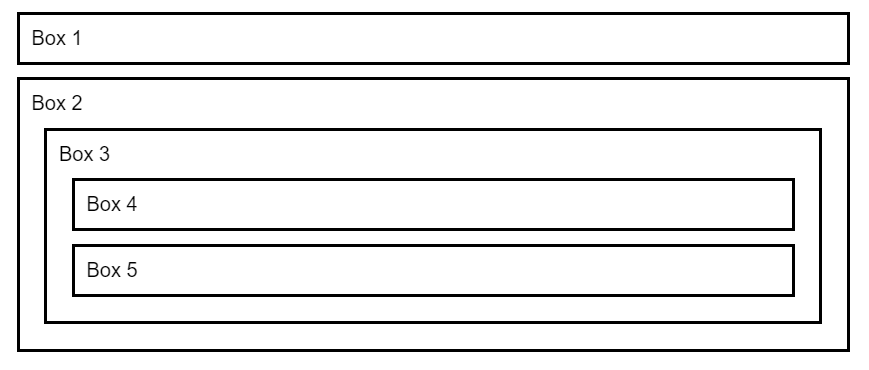
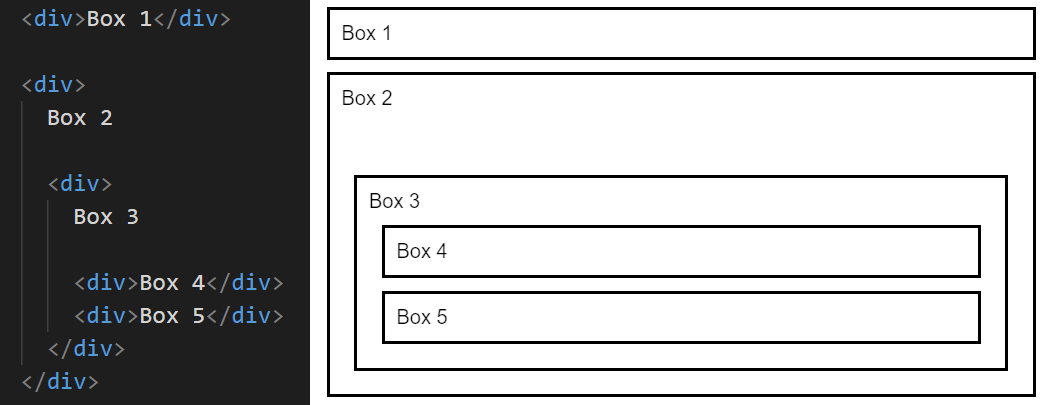
feedback from matt

diff --git a/01-html/content/step-1-html-cmd-git.md b/01-html/content/step-1-html-cmd-git.md
@@ -6,7 +6,7 @@ It's time to get our hands dirty with some real coding! We know this is a big un
 
 ## Getting Started with the Command Line
 
-In the old days of computer usage, entering text-based commands on a black screen was the only way to interact with the system. There was no graphical user interface (also known as a GUI) with icons that could be clicked. Now that we have more powerful operating systems like Windows and macOS, most users never have to look at a command line interface (CLI). For developers, though, the command line is still a common tool for performing certain tasks. Later in the course, it will become integral to building full-stack applications. For now, we'll be using it to set up our project.
+In the old days of computer usage, entering text-based commands on a black screen was the only way to interact with the system. There was no graphical user interface (also known as a GUI) with icons that could be clicked. Now that we have more powerful operating systems like Windows and macOS, most users never have to look at a command line interface (CLI). For developers, though, the command line (often called the terminal) is still a common tool for performing certain tasks. Later in the course, it will become integral to building full-stack applications. For now, we'll be using it to set up our project.
 
 Mac users, you already have a built-in Terminal app, which you can go ahead and launch now by searching for "terminal" in the Spotlight Search (the 🔍 icon in the top-right corner, or keyboard shortcut Command+Spacebar).
 
@@ -18,7 +18,7 @@ Regardless of your operating system, you should see a window that looks like thi
 
 In this window, type the command `pwd` and press Enter. The terminal will then display something like `/c/Users/YourName` on Windows or `/Users/YourName` on Mac. The command `pwd` stands for Print Working Directory and lets us know which folder (a.k.a. directory) the terminal is currently in. When you first open Terminal or Git Bash, you start in your user folder/directory. If you want to see what's in this directory, you could navigate to it through your operating system's GUI (by clicking on folder icons, etc.), but since we're already in the command line, let's try another command: `ls`.
 
-The `ls` command lists any files and folders within the current directory. Some common folders you might see in here are `Documents`, `Pictures`, `Music`, and `Desktop`. Fun fact: the desktop you see when your computer first starts is this folder in your user directory! Let's "go" there now from the command line by typing the following commands, pressing Enter after each one:
+The `ls` command lists any files and folders within the current directory. Some common folders you might see in here are `Documents`, `Pictures`, `Music`, and `Desktop`. Fun fact: the desktop you see when your computer first starts is this folder in your user directory! Let's "go" there now from the command line by typing the following commands, pressing Enter after each line:
 
 ```bash
 cd Desktop
@@ -137,9 +137,9 @@ All right, so it's not the most exciting web page yet, but you gotta start somew
 
 > **Deep Dive:** Read more about the different [heading tags](https://developer.mozilla.org/en-US/docs/Web/HTML/Element/Heading_Elements).
 
-Try changing the code to `<h2>RUN BUDDY</h2>`. Save the file and refresh the tab in the browser. Notice how the text shrunk slightly. Also keep in mind that this only affected the RUN BUDDY text, because the tag was closed. If you remove the `</h2>`, the text underneath will become big and bold, too, because the browser doesn't know where the `<h2>` ends.
+Try changing the code to `<h2>RUN BUDDY</h2>`. Save the file and refresh the tab in the browser. Notice how the text shrunk slightly. Also keep in mind that this only affected the RUN BUDDY text, because the tag was closed. If you remove the `</h2>`, the text underneath will become big and bold, too, because the browser doesn't know where the `<h2>` ends. Now change it to an `<h3>` and observe again how the text continues to shrink.
 
-Now that we understand HTML tags, let's look at the others we used. We're writing an HTML page, so it makes sense that everything would need to be wrapped in an `<html>` tag. The only thing that didn't go inside this tag was the `<!DOCTYPE html>`. This is an extra line that tells the browser how to interpret your HTML code. We don't need to worry about supporting very old browsers like Netscape Navigator, so this **DOCTYPE** will always be written as `<!DOCTYPE html>`.
+With this new understanding of HTML tags, let's look at the others we used. We're writing an HTML page, so it makes sense that everything would need to be wrapped in an `<html>` tag. The only thing that didn't go inside this tag was the `<!DOCTYPE html>`. This is an extra line that tells the browser how to interpret your HTML code. We don't need to worry about supporting very old browsers like Netscape Navigator, so this **DOCTYPE** will always be written as `<!DOCTYPE html>`.
 
 > **Deep Dive:** Read more about the [DOCTYPE](https://developer.mozilla.org/en-US/docs/Web/HTML/Quirks_Mode_and_Standards_Mode).
 
@@ -162,27 +162,31 @@ The `charset` meta tag is important to include now, though, because it specifies
 
 The good news is, much of this is boilerplate, meaning every web page is going to start with the same structure. Every page needs a DOCTYPE, an `<html>` tag, a `<head>` tag, etc. It's worth typing out again and again just to reiterate their importance, but it can also be copy/pasted into future projects without harm.
 
-One last thing to keep in mind is how we've been organizing the code in our HTML file. New tags were put on a new line, and whenever a tag was inside of another, we indented the code. You could choose to write your HTML like this:
+> **Best Practice:** Keep in mind how we've been organizing the code in our HTML file. New tags were put on a new line, and whenever a tag was inside of another, we indented the code. You could choose to write your HTML like this:
+>
+>```html
+><!DOCTYPE html> <html lang="en"> <head> <meta charset="UTF-8" /> <title>Run Buddy</title> </head> <body> <h1>RUN BUDDY</h1> What We Do </body> </html>
+>```
+>
+>...and the browser would still render it correctly, but this is difficult to make sense of! As we write code, we want it to be as legible as possible. This is not only for the benefit of other developers who may work on this project but for ourselves when we come back the next day, having totally forgotten what we were doing.
 
-```html
-<!DOCTYPE html> <html lang="en"> <head> <meta charset="UTF-8" /> <title>Run Buddy</title> </head> <body> <h1>RUN BUDDY</h1> What We Do </body> </html>
-```
-
-...and the browser would still render it correctly, but this is difficult to make sense of! As we write code, we want it to be as legible as possible. This is not only for the benefit of other developers who may work on this project but for ourselves when we come back the next day, having totally forgotten what we were doing.
+> **Coding Challenge:** Create a brand new HTML file that lists your six favorite foods, using the different HTML headings to denote their importance to you.
 
 ## Getting Git
 
-Our web page doesn't look like much yet, but this is still a good place to stop and take care of another important aspect when it comes to managing a project: **version control**. Git is one option to accomplish this. It's a system that allows you to save snapshots (or in Git terms, **commits**) of your work. Whenever you reach a good stopping point, you can save, or commit, the current state of your codebase. This creates a nice history of changes that you can look back on and allows you to easily revert to an earlier version if your codebase suddenly breaks beyond repair. Git also lets you push your commits to a remote location, meaning you won't lose any work if your computer crashes, or you can switch between your home computer and office computer and continue where you left off.
+Our web page doesn't look like much yet, but this is still a good place to stop and take care of another important aspect when it comes to managing a project: **version control**. Git is one option to accomplish this. It's a system that allows you to create save points (or in Git terms, **commits**) of your work. Whenever you reach a good stopping point, you can save/commit the current state of your codebase. This creates a nice history of changes that you can look back on and allows you to easily revert to an earlier version.
 
-The biggest benefits of Git come from working on a team, which is very likely to happen once you step out into the development workforce. Without Git, it would be extremely tedious for developers to share code and work on the same app without accidentally losing or overwriting each other's code. Using Git, developers can create alternate versions of the same codebase (called **branches**) and work in isolation. When developers are ready to merge these branches together, Git will point out if any lines of code conflict and give developers a chance to fix the overlap. Pretty nifty stuff.
+> **On the Job:** In development, you'll hear the term **production** a lot, which refers to the live version of your app or website that users are currently using. Sometimes bad code makes it to production, maybe causing the entire app to freeze, and the best course of action is to immediately undo! With Git, an older (working) version of the codebase can be pushed to production while developers investigate what went wrong with the new version.
+
+Other benefits of Git include being able to push commits to a remote location, meaning you won't lose any work if your computer crashes, or you can switch between your home computer and office computer and continue where you left off. Git also facilitates working on a team, which is very likely to happen once you step out into the development workforce. Without Git, it would be extremely tedious for developers to share code and work on the same app without accidentally losing or overwriting each other's code. Using Git, developers can create alternate versions of the same codebase (called **branches**) and work in isolation. When developers are ready to merge these branches together, Git will point out if any lines of code conflict and give developers a chance to fix the overlap. Pretty nifty stuff.
 
 > **Deep Dive:** Learn more about [Git](https://git-scm.com/video/what-is-git) from the Git team!
 
 We'll be honest, though... learning Git is tough. It's okay if things don't click right away, or if commits get messed up. Fortunately, there will be plenty of opportunities to practice Git in the coming weeks. By the time you complete the boot camp, you'll be a Git master!
 
-Let's turn our Run Buddy project into a Git **repository.** Open the terminal in the `run-buddy` directory and run the following command: `git init`. The terminal should print something like `Initialized empty Git repository.`
+Let's turn Run Buddy into a Git **repository** (basically a project folder with version control capabilities). Open the terminal in the `run-buddy` directory and run the following command: `git init`. The terminal should print something like `Initialized empty Git repository.`
 
-> **Important:** If your computer doesn't recognize the `git` command, make sure you've installed it from the [Git website](https://git-scm.com/downloads).
+> **Important:** If your computer doesn't recognize the `git` command, make sure you've installed Git from the [Git website](https://git-scm.com/downloads).
 
 It may not seem like much happened, but this created a hidden `.git` folder in the `run-buddy` directory that designates it as a Git repository. If you want to verify for yourself, run the command `ls -a`, which will list any hidden files and folders as well as normal files. A file or folder starting with `.` is hidden, and the `.git` folder is marked as hidden, because it's probably not something we should be messing with.
 
@@ -205,7 +209,9 @@ git status
 git commit -m "page template"
 ```
 
-`git commit` is the command that will take everything in staging and commit it, but there's an extra piece we should make sure we have: `-m "message"`. This is how we can attach a helpful message to our commits. Best practice, every commit should include a message to explain what this particular change to the code is doing. In our case, we were working on the "page template."
+`git commit` is the command that will take everything in staging and commit it, but there's an extra piece we should make sure we have: `-m "message"`. This is how we can attach a helpful message to our commits.
+
+> **Best Practice:** Every commit should include a message to explain what this particular change to the code is doing.
 
 On your first commit, however, Git may ask you to identify yourself:
 
@@ -231,7 +237,7 @@ Now run `git status`, and Git will recognize that the `index.html` file has been
 
 ![git status](./assets/step-1/600-git-status.png)
 
- If we want to save this change to Git, we'll need to `add` it to staging first before the `commit`:
+ If we want to commit this change to Git, we'll need to `add` it to staging first before the `commit`:
 
 ```bash
 git add index.html
@@ -254,26 +260,9 @@ How do you add a message to a `git commit`?
 
 We'll have a chance to practice Git again before we're done, but let's jump back into building out the HTML. Looking at the design mock-up again, it may feel quite daunting to turn all of those colors and perfectly-positioned titles and images into raw HTML. That's why this next step is hugely important. As developers, we must resist the urge to start coding without a plan of attack. HTML can easily get out of control if we don't consider how elements fit together.
 
-What's nice about HTML, though, is that it's really just a series of boxes that fit inside of (or next to) each other. Consider this layout:
+What's nice about HTML, though, is that it's really just a series of boxes that fit inside of (or next to) each other. Consider the following code and its visual representation on the right:
 
 ![box diagram](./assets/step-1/725-box-diagram.png)
-
-Represented by the following code:
-
-```html
-<div>Box 1</div>
-
-<div>
-  Box 2
-
-  <div>
-    Box 3
-
-    <div>Box 4</div>
-    <div>Box 5</div>
-  </div>
-</div>
-```
 
 We're using [**div tags**](https://developer.mozilla.org/en-US/docs/Web/HTML/Element/div) here, which are like containers to hold relevant information together. Note that Box 1 and 2 don't overlap; they're two separate areas of content. Maybe Box 1 is an annoying ad and Box 2 is a navigation bar. Inside of these boxes, we could have additional boxes, like an overall list (Box 3) that contains individual links (Boxes 4 and 5). Could we have omitted Box 3 in this example? Probably... but it helps to keep like content grouped together. Thus, Box 3's sole purpose is to better organize smaller information (the links).
 
@@ -287,7 +276,7 @@ Note that some containers aren't immediately apparent, because they do nothing b
 
 ![hand-drawn](./assets/step-1/775-drawn-outline.png)
 
-> **Story Time:** It's not uncommon for teams to spend many days or even weeks planning out a project before a single line of code is written. Drawing on a piece of paper may feel like a waste of time when we want to scratch that coding itch right away, but doing so ends up saving time and preventing potential problems in the long run.
+> **On the Job:** It's not uncommon for teams to spend many days or even weeks planning out a project before a single line of code is written. Drawing on a piece of paper may feel like a waste of time when we want to scratch that coding itch right away, but doing so ends up saving time and preventing potential problems in the long run.
 
 Keep your hand-drawn outline close by as we continue. If your outline doesn't 100% match with the code we end up writing, that's fine. There's always more than one way to build a web page! And for the remainder of this lesson, we won't fill in every container, just the higher-level, structural components. The smaller details will come in future lessons.
 
@@ -391,17 +380,22 @@ While there are dozens of [semantic tags](https://developer.mozilla.org/en-US/do
 
 > **Pro-Tip:** To succeed in the boot camp, type out every code snippet yourself instead of copying and pasting. It will help build up that muscle memory you need to become an expert coder faster!
 
-You may have noticed something new here: the `<!-- -->` tag. This is how we can leave notes, or comments, in the code. These do not show up in the browser but are helpful to have to make the code even easier to read. We're also using `<h2>` tags for the other headings, because `<h1>` should be reserved for the single most important text on the page. Save, refresh the browser, and admire your efforts:
+> **Best Practice:** You may have noticed something new here: the `<!-- -->` tag. This is how we can leave notes, or comments, in the code. These do not show up in the browser but are helpful to have to make the code even easier to read.
+
+Save, refresh the browser, and admire your efforts:
 
 ![final screenshot](./assets/step-1/800-html-screenshot.png)
 
 Okay, still not very pretty, but we've laid some important groundwork that's going to make the next several steps much easier to complete.
 
-> **Pause:** What's the difference between a `<section>` tag and a `<div>`?
+> **Check Point:** \
+What's the first thing you should do before writing a single line of HTML code?\
+What's the difference between a `<section>` tag and a `<div>`?\
+How do you leave comments in HTML code?
 
 ## Publishing with GitHub
 
-As you get into a comfortable workflow, you'll want to commit to Git often. We just finished an important milestone: outlining the high-level structure of our web page. This is the perfect time to save our work. Before we commit, though, let's create another file in our project:
+As you get into a comfortable workflow, you'll want to commit to Git often. This ensures you don't accidentally lose any work and gives you a "save point" that you can potentially revert back to. We just finished an important milestone: outlining the high-level structure of our web page. This is the perfect time to commit. Before we commit, though, let's create another file in our project:
 
 ```bash
 touch .gitignore
@@ -426,7 +420,9 @@ git add -A
 git commit -m "html outline and gitignore"
 ```
 
-Awesome, we've now saved our hard work to Git. The problem, however... these commits only live on our local computer. So if our computer dies, our work is lost. It would be helpful to save this repository in a remote location (i.e. on someone else's computer). That's where GitHub comes in. [GitHub](https://github.com/) is a website that hosts Git repositories. It's free and very popular among developers, so make sure you have an account!
+Awesome, we've now saved our hard work to Git. The problem, however... these commits only live on our local computer. So if our computer dies, our work is lost. The Run Buddy company would be pretty upset if that happened. It would be helpful if we could save this repository in a remote location (i.e. on someone else's computer). That's where GitHub comes in. [GitHub](https://github.com/) is a website that hosts Git repositories. It's free and very popular among developers, so make sure you have an account!
+
+> **Important:** A common misconception is that Git and GitHub are the same thing. Git is the version control software that we've installed on our computer. GitHub is a service that lets us create Git repositories on the Internet. There are [other websites](https://opensource.com/article/18/8/github-alternatives) besides GitHub that perform the same service, but the software on your computer (Git) wouldn't change.
 
 What we'll do is create a new repository on GitHub, then link our local Run Buddy project with this remote repository. After logging in to GitHub, find and click the green New button:
 
@@ -475,7 +471,7 @@ git commit -m "provide a message"
 git push origin master
 ```
 
-GitHub comes with a lot of other helpful features like contribution stats, code reviews, and bug tracking. GitHub will also host your HTML projects as live websites, so you don't have to worry about paying for a separate hosting service like GoDaddy. That's pretty nice of them! Let's flip the switch to make our current HTML project live. On your repository's page, click the Settings tab:
+GitHub comes with a lot of other helpful features like contribution stats, code reviews, and bug tracking. GitHub will also host your HTML projects as live websites, so you don't have to worry about paying for a separate hosting service like GoDaddy. That's pretty nice of them! Let's flip the switch to make our current HTML project live. That way, we can show the project manager of Run Buddy our progress. On your repository's page, click the Settings tab:
 
 ![github settings](./assets/step-1/1400-github-settings.png)
 
